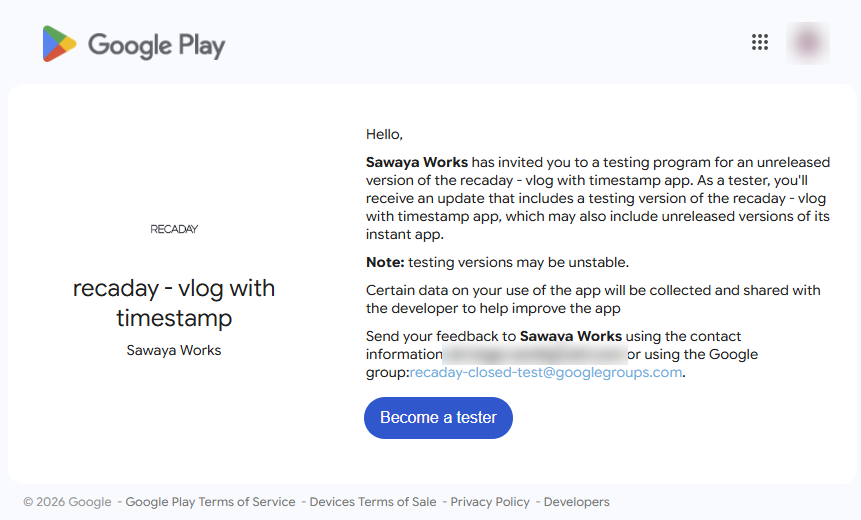
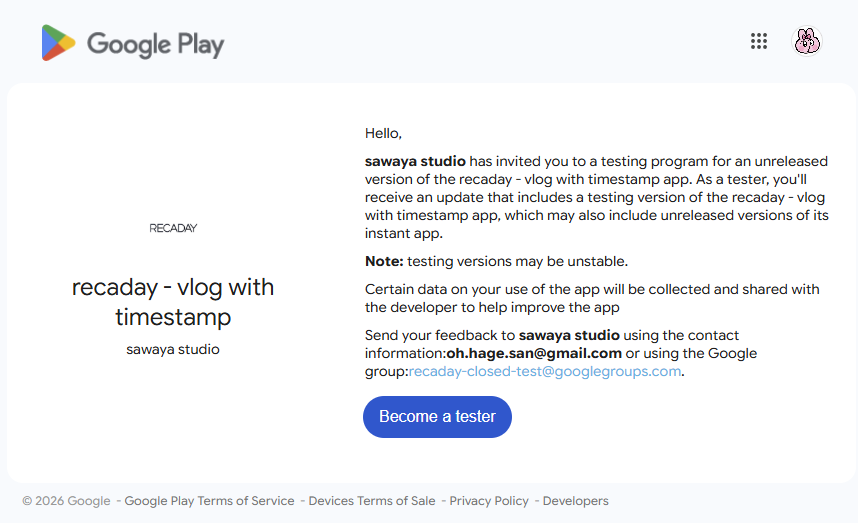
名前を Sawaya Studio に、道を相対に、closed-test の 2 枚目を差し替え
・site.json の name を Sawaya Studio に。頁の中の名乗りは {{site.name}} 経由なので、
  直したのはその 1 行だけ

・根から書いた道（/assets/…）を、その頁からの道に直すようにした。
  **頁をそのまま開いても出るようにするため。** 根のままだと file:// で開いたときに
  ドライブの根を見にいって、空も書体も絵も出ない。
  書くときは根から（どの頁でも同じ字面で済む）、出すときは相対にする。
  closed-test の頁も同じにそろえた。

・closed-test の 2 枚目（Google Play のテスト頁）を新しいものに差し替え。
  金の枠・番号・矢印はそのままで合っていたので、寸法だけ 858x523 に直した。

・**新しい絵には連絡先のメールが写っていたので、塗りつぶした**（.mask）。
  この頁は最後に「顔写真と連絡先のメールは伏せてあります」と書いてあり、
  そのままだと書いてあることと違ってしまう。ぼかしではなく塗りつぶしなのは、
  ぼかしは掛かりが弱いと元が読めてしまうため。

Claude-Session: https://claude.ai/code/session_01SHZtumb3VacytoN7oZkp7g

diff --git a/recaday/index.html b/recaday/index.html
@@ -11,8 +11,8 @@
 <meta property="og:url" content="https://sawayaworks.github.io/recaday/">
 <meta property="og:image" content="https://sawayaworks.github.io/assets/recaday-lockup.png">
 <meta name="twitter:card" content="summary_large_image">
-<link rel="icon" href="/assets/recaday-icon.png">
-<link rel="apple-touch-icon" href="/assets/recaday-icon.png">
+<link rel="icon" href="../assets/recaday-icon.png">
+<link rel="apple-touch-icon" href="../assets/recaday-icon.png">
 <link rel="canonical" href="https://sawayaworks.github.io/recaday/">
 
 <style>
@@ -121,12 +121,12 @@
      数字とコロンと AM/PM だけに絞って置いてある**（それぞれ 1〜2KB）。
      どれも SIL OFL。ライセンス文は /assets/fonts/ に置いてある。
      ============================================================ */
-  @font-face { font-family: "Clock Bold";    src: url("/assets/fonts/JetBrainsMono-ExtraBold.woff2") format("woff2"); font-display: swap; }
-  @font-face { font-family: "Clock Thin";    src: url("/assets/fonts/IBMPlexMono-Light.woff2")       format("woff2"); font-display: swap; }
-  @font-face { font-family: "Clock Retro";   src: url("/assets/fonts/SpaceMono-Bold.woff2")          format("woff2"); font-display: swap; }
-  @font-face { font-family: "Clock Digital"; src: url("/assets/fonts/ShareTechMono-Regular.woff2")   format("woff2"); font-display: swap; }
-  @font-face { font-family: "Clock Serif";   src: url("/assets/fonts/CutiveMono-Regular.woff2")      format("woff2"); font-display: swap; }
-  @font-face { font-family: "Cap Round";     src: url("/assets/fonts/MPLUS1p-Bold.woff2")            format("woff2"); font-display: swap; }
+  @font-face { font-family: "Clock Bold";    src: url("../assets/fonts/JetBrainsMono-ExtraBold.woff2") format("woff2"); font-display: swap; }
+  @font-face { font-family: "Clock Thin";    src: url("../assets/fonts/IBMPlexMono-Light.woff2")       format("woff2"); font-display: swap; }
+  @font-face { font-family: "Clock Retro";   src: url("../assets/fonts/SpaceMono-Bold.woff2")          format("woff2"); font-display: swap; }
+  @font-face { font-family: "Clock Digital"; src: url("../assets/fonts/ShareTechMono-Regular.woff2")   format("woff2"); font-display: swap; }
+  @font-face { font-family: "Clock Serif";   src: url("../assets/fonts/CutiveMono-Regular.woff2")      format("woff2"); font-display: swap; }
+  @font-face { font-family: "Cap Round";     src: url("../assets/fonts/MPLUS1p-Bold.woff2")            format("woff2"); font-display: swap; }
 
   /* ---------- 名前だけで 1 画面 ---------- */
   /*
@@ -643,7 +643,7 @@
   <button type="button" data-set="en">English</button>
 </div>
 
-<canvas id="sky" data-clouds="/assets/clouds.png" aria-hidden="true"></canvas>
+<canvas id="sky" data-clouds="../assets/clouds.png" aria-hidden="true"></canvas>
 
 <svg width="0" height="0" aria-hidden="true" style="position:absolute">
   <defs>
@@ -670,7 +670,7 @@
 
 <main>
 <section class="hero">
-  <img class="lockup" src="/assets/recaday-lockup.png" width="1658" height="536" alt="recaday — record a day">
+  <img class="lockup" src="../assets/recaday-lockup.png" width="1658" height="536" alt="recaday — record a day">
   <a class="more" href="#read">
     <span data-l="ja">どんなアプリか</span><span data-l="en">What it is</span>
     <span aria-hidden="true">↓</span>
@@ -828,7 +828,7 @@
 <h2>You can try it now</h2>
 <p>Body text here.</p>
 </div>
-<a class="act" href="/recaday/closed-test/"><span data-l="ja">参加のしかたを見る</span><span data-l="en">See how to join</span></a>
+<a class="act" href="../recaday/closed-test/"><span data-l="ja">参加のしかたを見る</span><span data-l="en">See how to join</span></a>
 </section>
 <section class="plate closing">
 <div data-l="ja">
@@ -841,12 +841,12 @@
 <footer>
 <span data-l="ja">写真 / 動画 ・ vlog ・ 日記 ・ ライフログ</span>
 <span data-l="en">Video · vlog · diary · lifelog</span>
-<span><a href="/">Sawaya Works</a></span>
+<span><a href="../">Sawaya Studio</a></span>
 </footer>
 </div>
 </main>
 
-<script src="/assets/sky.js" defer></script>
+<script src="../assets/sky.js" defer></script>
 
 <script>
 /*

diff --git a/recaday/closed-test/index.html b/recaday/closed-test/index.html
@@ -10,8 +10,8 @@
 <meta property="og:type" content="website">
 <meta property="og:image" content="https://sawayaworks.github.io/assets/recaday-lockup.png">
 <meta name="twitter:card" content="summary_large_image">
-<link rel="icon" href="/assets/recaday-icon.png">
-<link rel="apple-touch-icon" href="/assets/recaday-icon.png">
+<link rel="icon" href="../../assets/recaday-icon.png">
+<link rel="apple-touch-icon" href="../../assets/recaday-icon.png">
 <link rel="canonical" href="https://sawayaworks.github.io/recaday/closed-test/">
 <style>
   /*
@@ -323,6 +323,17 @@
     pointer-events: none;
   }
   /*
+    伏せる所。**塗りつぶすこと。** ぼかしは、掛かりが弱いと元が読めてしまう。
+    この頁は誰の手にも渡るので、連絡先のメールはここで消す。
+  */
+  .mask {
+    position: absolute;
+    background: #5A6472;
+    border-radius: 2px;
+    pointer-events: none;
+  }
+
+  /*
     札。**枠の線に埋もれさせないこと。**
     破線の上に小さな札を置いていたので、線と札が同じ濃さで混ざって読めなかった。
     白い縁で切り離し、字も大きくする。
@@ -481,11 +492,11 @@
   <button type="button" data-set="en">English</button>
 </div>
 
-<canvas id="sky" data-clouds="/assets/clouds.png" aria-hidden="true"></canvas>
+<canvas id="sky" data-clouds="../../assets/clouds.png" aria-hidden="true"></canvas>
 
 <main>
   <section class="hero">
-    <img class="lockup" id="lockup" src="/assets/recaday-lockup.png" width="1658" height="536" alt="recaday — record a day" />
+    <img class="lockup" id="lockup" src="../../assets/recaday-lockup.png" width="1658" height="536" alt="recaday — record a day" />
     <a class="more" href="#join">
       <span data-l="ja">Closed テストへの参加方法</span>
       <span data-l="en">How to join the closed test</span>
@@ -551,7 +562,8 @@
         <p class="how-lead" data-l="ja">押すとこの画面が出ます</p>
         <p class="how-lead" data-l="en">This is the screen you will see</p>
         <div class="real">
-          <img id="shot-play" src="shot-play.png" width="861" height="520" alt="The Google Play testing page. Become a tester sits near the bottom." />
+          <img id="shot-play" src="shot-play.png" width="858" height="523" alt="The Google Play testing page. Become a tester sits near the bottom." />
+          <span class="mask" style="left:51.3%;top:66.0%;width:21.8%;height:4.0%"></span>
           <span class="ring" style="left:42.3%;top:76.3%;width:17.2%;height:7.9%"></span>
           <span class="spot" style="left:59.5%;top:76.3%">1</span>
           <svg class="point" viewBox="0 0 40 40" aria-hidden="true" style="left:60.0%;top:85.0%">
@@ -600,7 +612,7 @@
   </section>
 </main>
 
-<script src="/assets/sky.js" defer></script>
+<script src="../../assets/sky.js" defer></script>
 
 <script>
 /* 言葉の切り替え。押したら覚える */

diff --git a/index.html b/index.html
@@ -3,9 +3,9 @@
 <head>
 <meta charset="utf-8">
 <meta name="viewport" content="width=device-width, initial-scale=1">
-<title>Sawaya Works</title>
+<title>Sawaya Studio</title>
 <meta name="description" content="ここに、検索結果と SNS に出る一行を書く。">
-<meta property="og:title" content="Sawaya Works">
+<meta property="og:title" content="Sawaya Studio">
 <meta property="og:description" content="ここに、検索結果と SNS に出る一行を書く。">
 <meta property="og:type" content="website">
 <meta property="og:url" content="https://sawayaworks.github.io/">
@@ -15,7 +15,7 @@
 
 <style>
 /*
-  Sawaya Works。
+  Sawaya Studio。
   ==========================================================================
   **ここの見た目はまだ決まっていない。**（コンセプトとデザインは別途相談）
 
@@ -126,7 +126,7 @@ footer{border-top:1px solid var(--line);margin-top:clamp(48px,9vw,96px);
 <body>
 <main>
 <section class="top">
-<p class="mark">Sawaya Works</p>
+<p class="mark">Sawaya Studio</p>
 <h1>ここに、いちばん言いたい一行。</h1>
 <p>ここに、その下の 2〜3 行。</p>
 </section>
@@ -134,12 +134,12 @@ footer{border-top:1px solid var(--line);margin-top:clamp(48px,9vw,96px);
 <p class="eyebrow">作ったもの</p>
 <ul class="works">
   <li class="work" style="--tint:#F2D357">
-    <h3><a href="/recaday/">recaday</a></h3>
+    <h3><a href="./recaday/">recaday</a></h3>
     <p>ここに一行の説明</p>
     <div class="meta">iOS / Android</div>
   </li>
   <li class="work" style="--tint:#2fa45f">
-    <h3><a href="/telop-studio/">テロップスタジオ</a></h3>
+    <h3><a href="./telop-studio/">テロップスタジオ</a></h3>
     <p>ここに一行の説明</p>
     <div class="meta">Android → iOS → PC</div>
   </li>
@@ -159,12 +159,12 @@ footer{border-top:1px solid var(--line);margin-top:clamp(48px,9vw,96px);
 </main>
 <footer>
   <div class="footin">
-<span>Sawaya Works</span>
+<span>Sawaya Studio</span>
 <span>ここに、ひとこと</span>
   </div>
 </footer>
 <script>
-/* Sawaya Works の頁は、いまのところ動くところが無い。
+/* Sawaya Studio の頁は、いまのところ動くところが無い。
    見た目が決まって、動かしたいものが出てきたらここに書く。 */
 </script>
 </body>

diff --git a/telop-studio/index.html b/telop-studio/index.html
@@ -11,8 +11,8 @@
 <meta property="og:url" content="https://sawayaworks.github.io/telop-studio/">
 <meta property="og:image" content="https://sawayaworks.github.io/telop-studio/icon.png">
 <meta name="twitter:card" content="summary">
-<link rel="icon" href="/telop-studio/favicon.png">
-<link rel="apple-touch-icon" href="/telop-studio/favicon.png">
+<link rel="icon" href="../telop-studio/favicon.png">
+<link rel="apple-touch-icon" href="../telop-studio/favicon.png">
 <link rel="canonical" href="https://sawayaworks.github.io/telop-studio/">
 
 <style>
@@ -386,7 +386,7 @@ footer a{color:var(--key-deep);font-weight:600}
 <footer>
   <div class="footin">
 <span>ここに、この頁が何の頁かを一行で</span>
-<span><a href="/">Sawaya Works</a></span>
+<span><a href="../">Sawaya Studio</a></span>
   </div>
 </footer>
 <script>

diff --git a/themes/works/page.js b/themes/works/page.js
@@ -1,2 +1,2 @@
-/* Sawaya Works の頁は、いまのところ動くところが無い。
+/* Sawaya Studio の頁は、いまのところ動くところが無い。
    見た目が決まって、動かしたいものが出てきたらここに書く。 */

diff --git a/themes/works/style.css b/themes/works/style.css
@@ -1,5 +1,5 @@
 /*
-  Sawaya Works。
+  Sawaya Studio。
   ==========================================================================
   **ここの見た目はまだ決まっていない。**（コンセプトとデザインは別途相談）
 

diff --git a/README.md b/README.md
@@ -14,7 +14,7 @@ node tools/serve.mjs            http://127.0.0.1:5199/ で見る
 
 ## 頁
 
-| `/` | Sawaya Works | `content/index.md` ／ テーマ `works` |
+| `/` | Sawaya Studio | `content/index.md` ／ テーマ `works` |
 | `/recaday/` | recaday の紹介 | `content/recaday/index.md` ／ テーマ `recaday` |
 | `/recaday/closed-test/` | クローズドテストの案内 | **手で書いた頁**（作り直しの対象外） |
 | `/telop-studio/` | テロップスタジオの紹介 | `content/telop-studio/index.md` ／ テーマ `telop` |

diff --git a/content/index.md b/content/index.md
@@ -6,7 +6,7 @@ description: ここに、検索結果と SNS に出る一行を書く。
 ---
 
 <!--
-  Sawaya Works の頁。**中身も見た目も、これから決める。**
+  Sawaya Studio の頁。**中身も見た目も、これから決める。**
 
   ・見た目（コンセプトとデザイン）は別途相談。決まったら themes/works/style.css を差し替える
   ・載せるのは「なぜ作っているか」と「連絡先・リンク」

diff --git a/content/_書き方.md b/content/_書き方.md
@@ -185,7 +185,7 @@ description: >
 
 ---
 
-## Sawaya Works のテーマで使えるもの
+## Sawaya Studio のテーマで使えるもの
 
 **見た目はまだ決まっていません。** 中身を置ける形だけ用意してあります。
 
